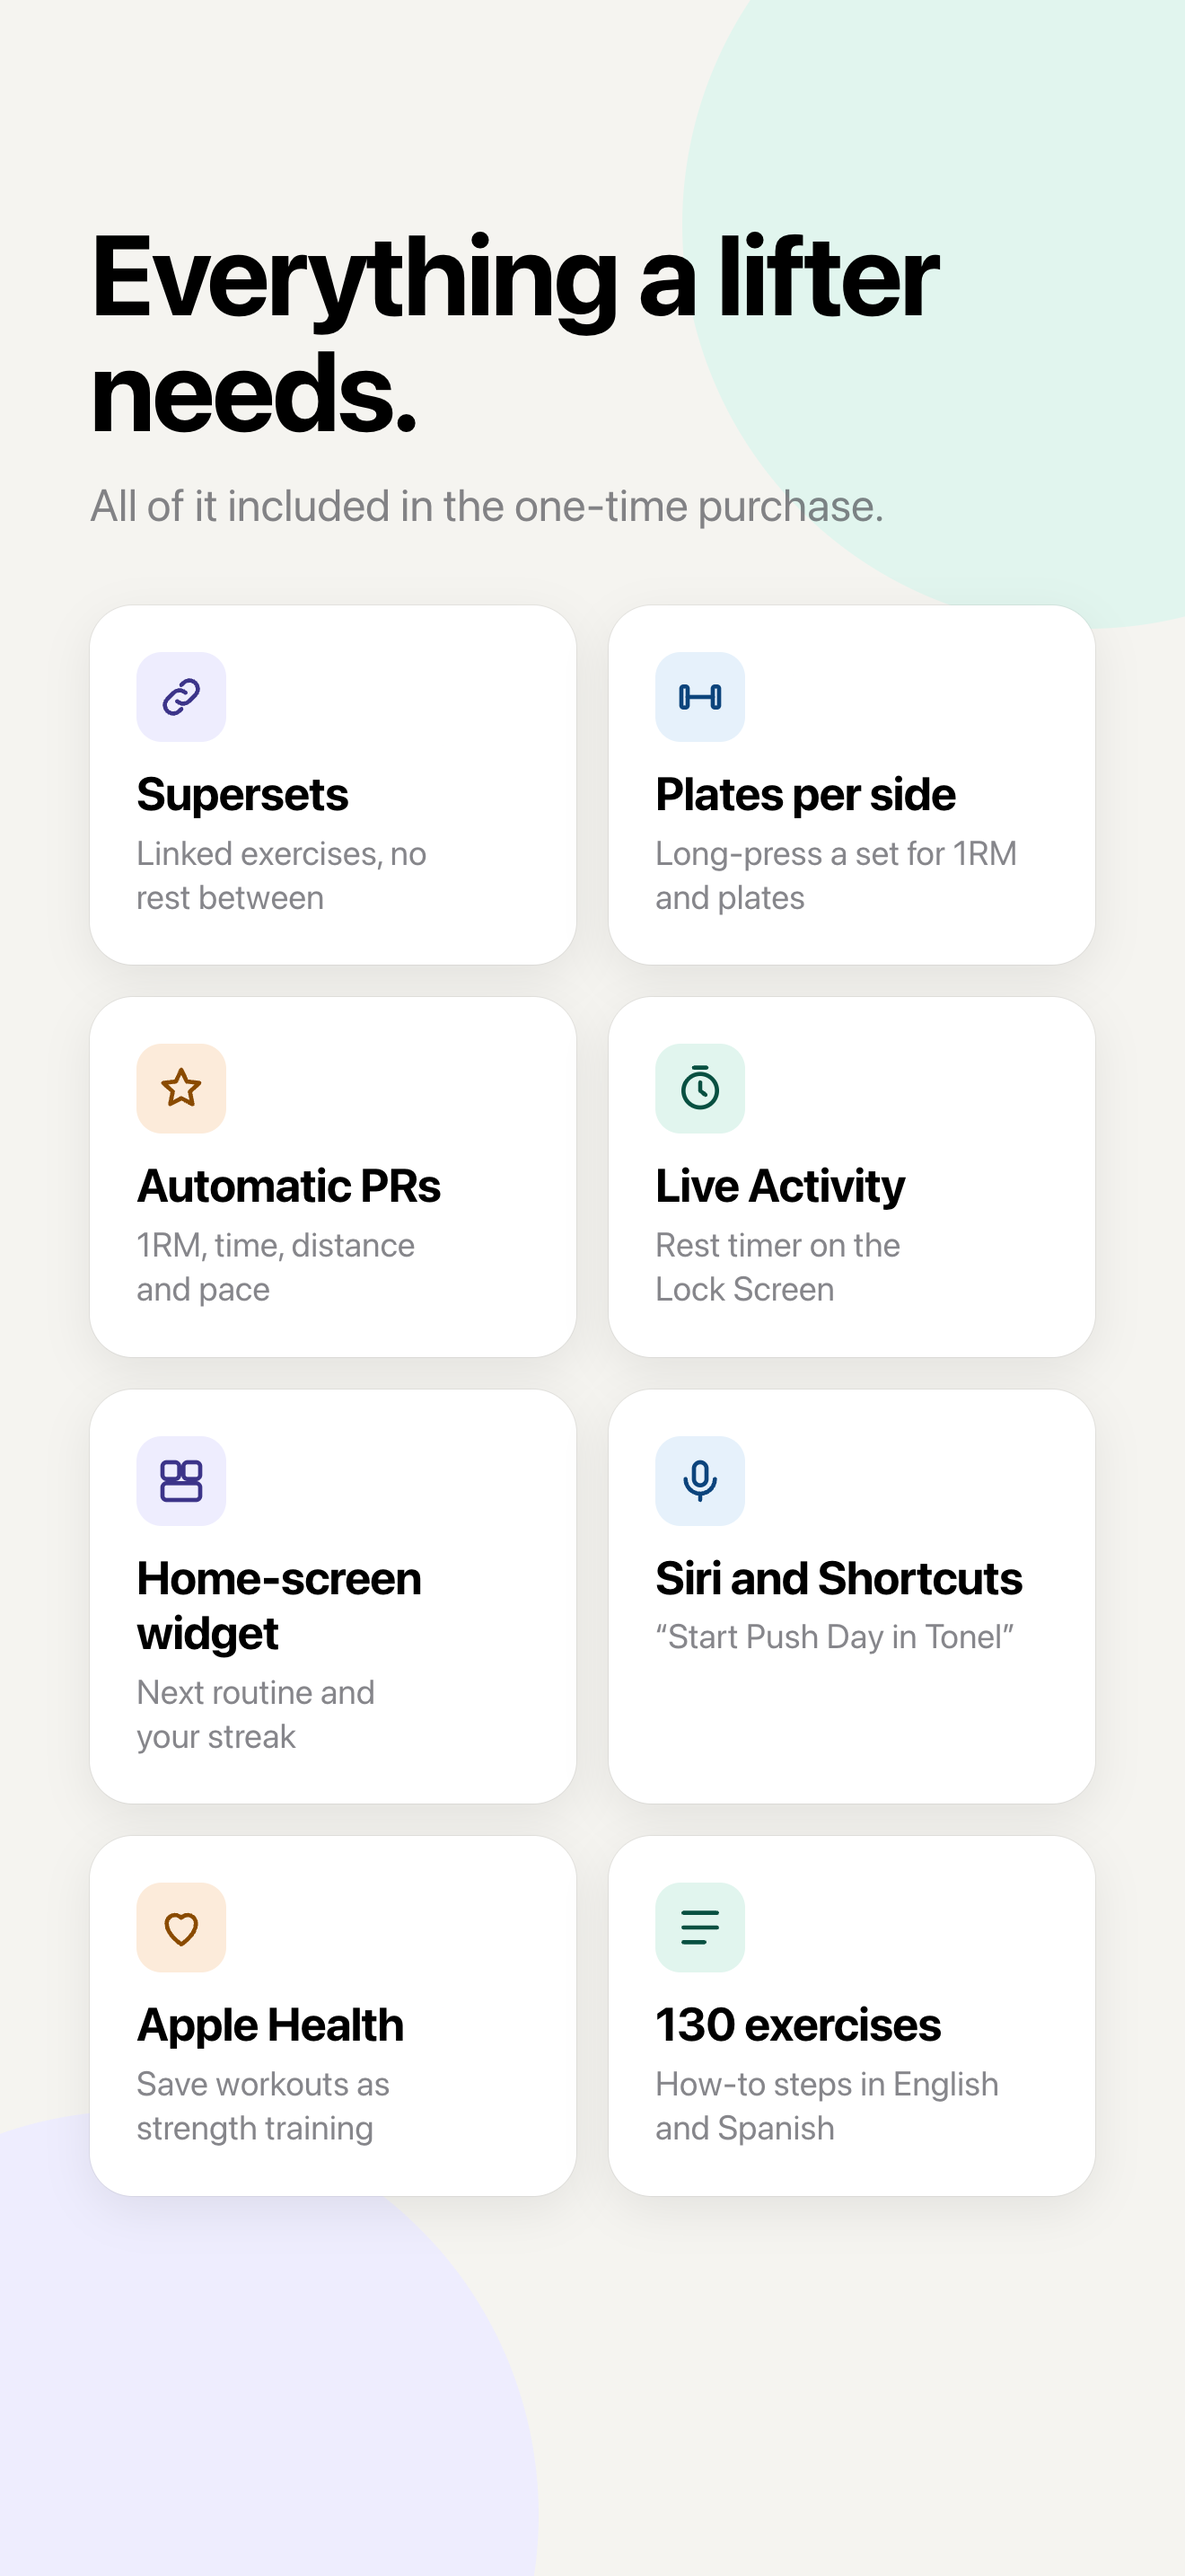
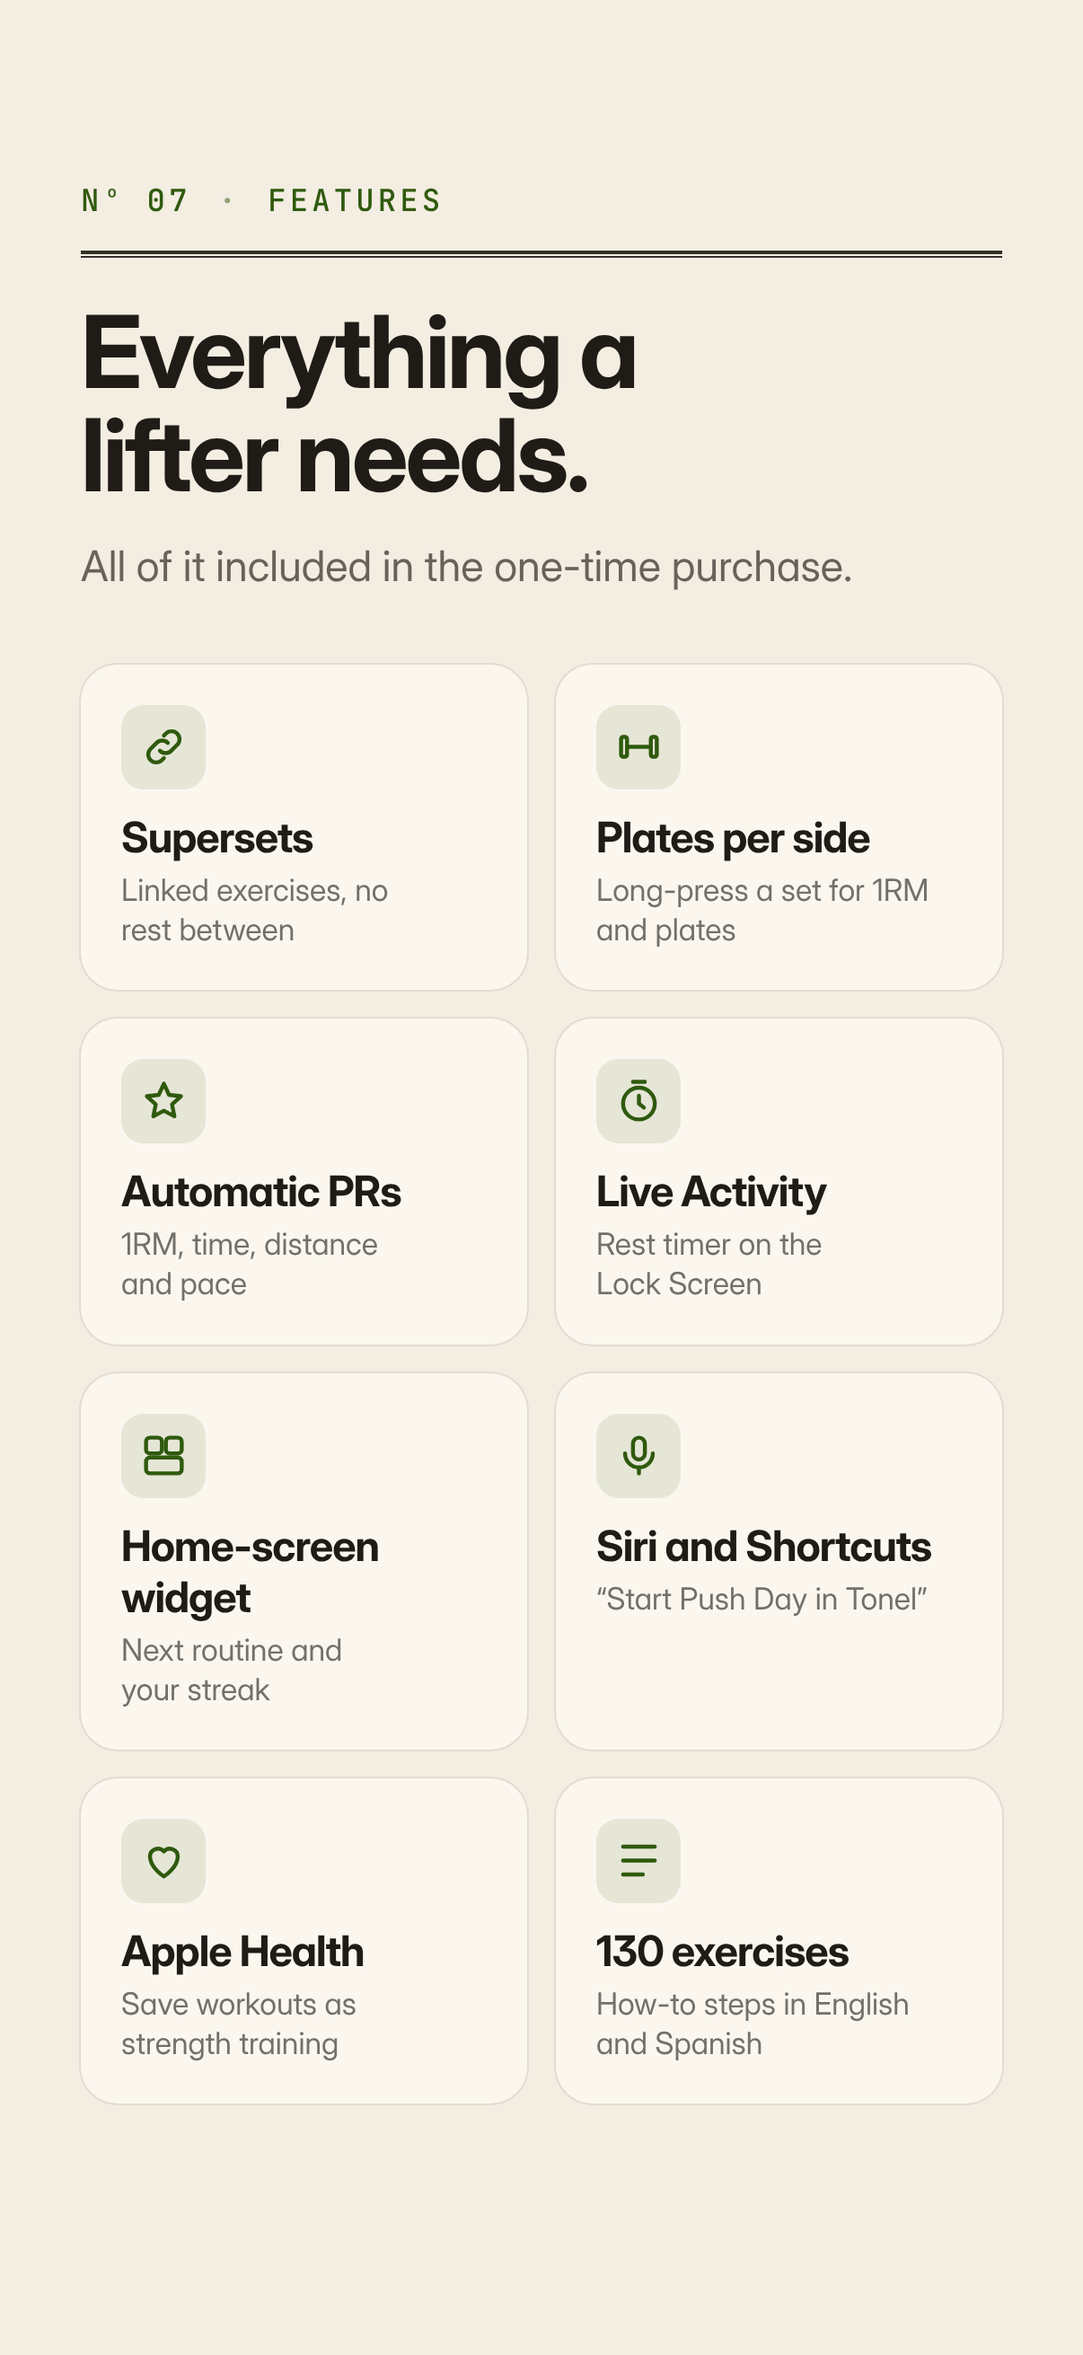
Update screenshots and header image
Spanish page now uses its own localized header for og:image.

Changed region(s): [[0.0, 0.0618, 0.9511, 1.0]]

diff --git a/es/marketing.html b/es/marketing.html
@@ -7,7 +7,7 @@
   <meta name="description" content="Planifica tus rutinas, registra cada serie en segundos y mira cómo suben tus récords. Descanso en la pantalla bloqueada, superseries, calculadora de discos e iCloud. Pago único, sin cuentas." />
   <meta property="og:title" content="Tonel — Registro de gimnasio" />
   <meta property="og:description" content="Planifica tus rutinas, registra cada serie en segundos y mira cómo suben tus récords. Descanso en la pantalla bloqueada, superseries, calculadora de discos e iCloud. Pago único, sin cuentas." />
-  <meta property="og:image" content="https://adrianborlido.github.io/tonel-app/images/header.jpg" />
+  <meta property="og:image" content="https://adrianborlido.github.io/tonel-app/images/es/header.jpg" />
   <meta name="twitter:card" content="summary_large_image" />
   <link rel="preconnect" href="https://fonts.googleapis.com" />
   <link rel="preconnect" href="https://fonts.gstatic.com" crossorigin />
